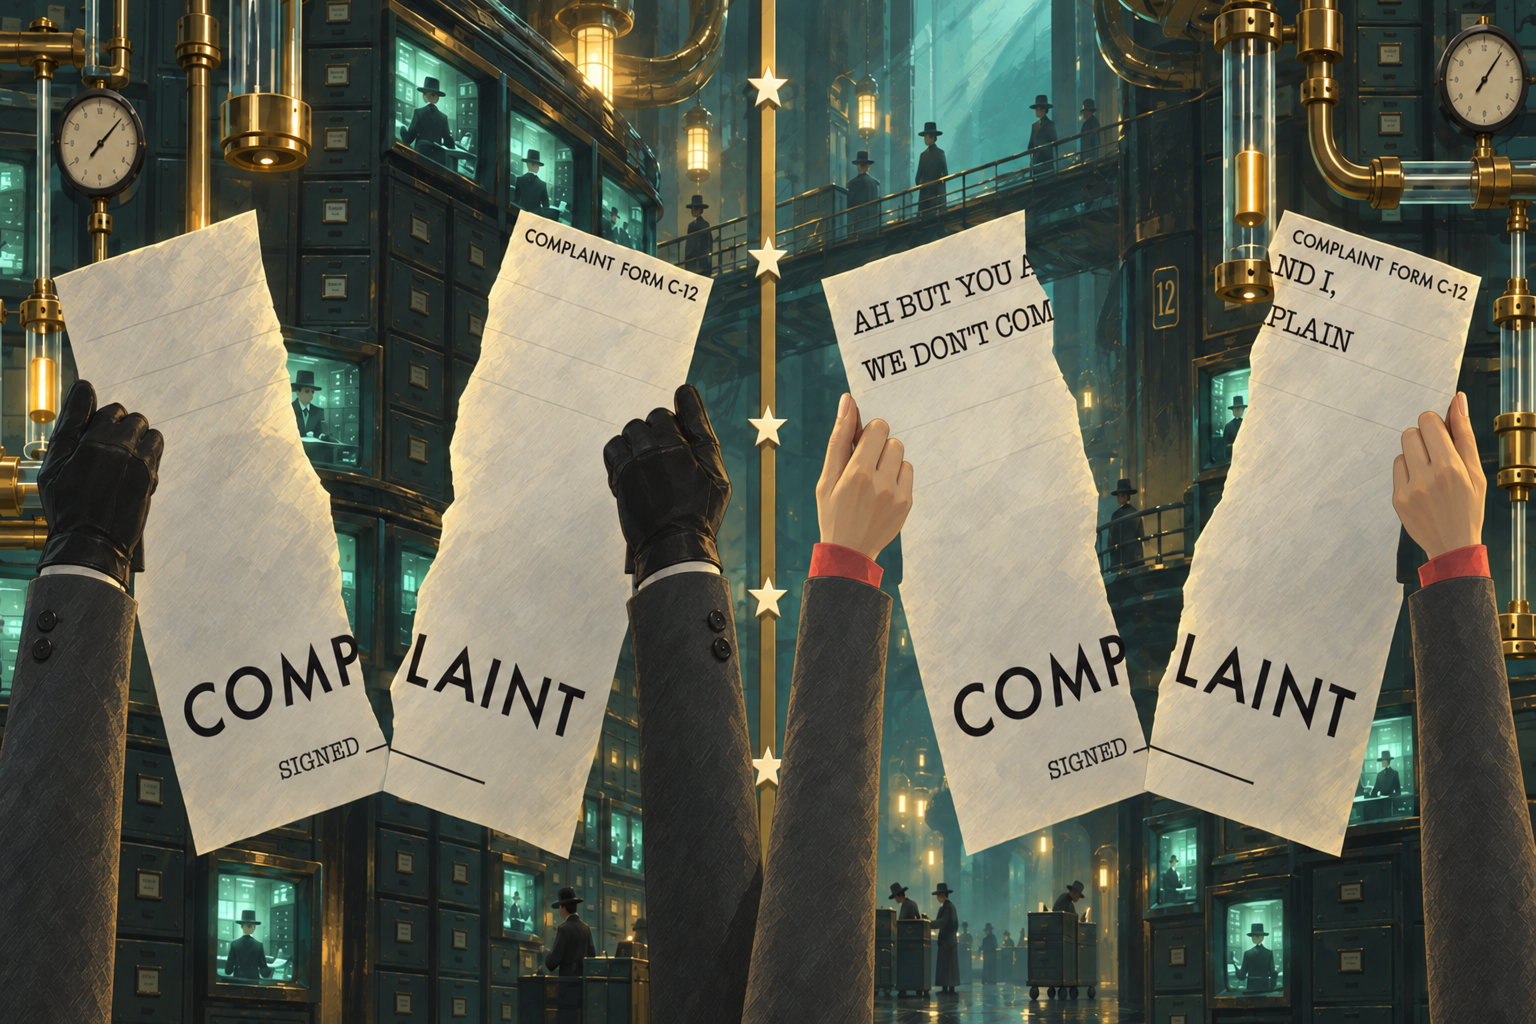
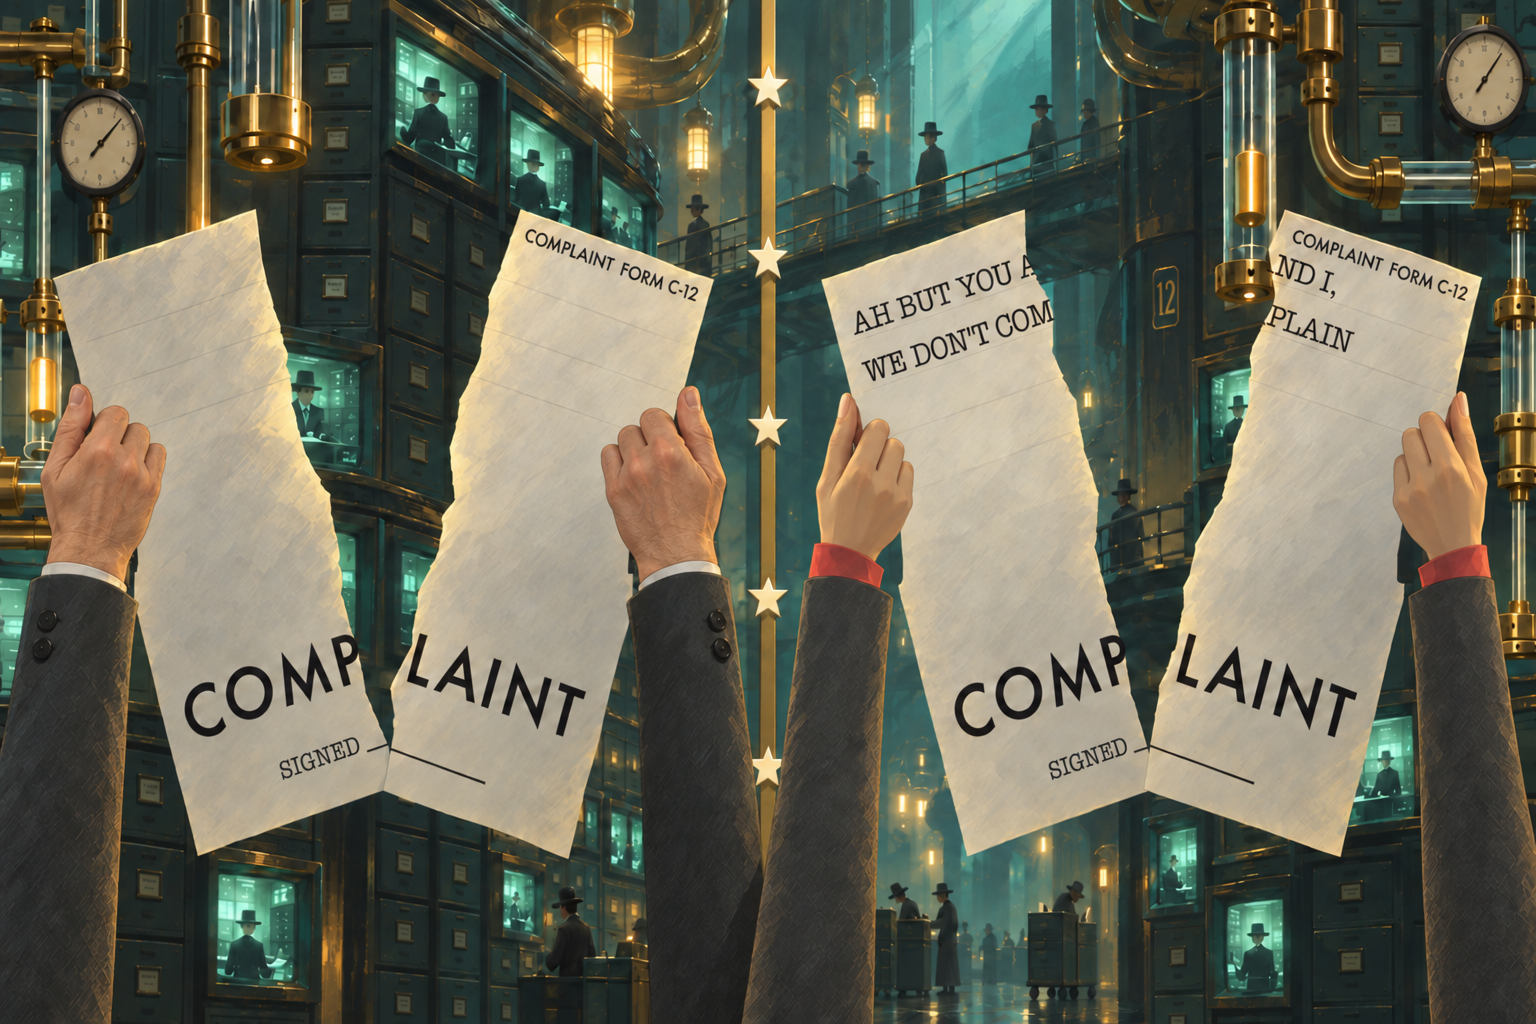
We Got Time world v16-v17: hard nightmare look, bare hands
The nightmare stills move to a much harder look in keyframes_nm2/: strict
symmetry, near-monochrome, flat shapes, endless chairs into fog, with only the
amber board and the sky for colour. The animatic prefers nm2, then nm, then
the cinematic pass. His black gloves (inherited from the pinball cut's mitt
hands) are gone from all eight stills that showed them.

Closes #79

diff --git a/bobwiseman-wgt-generative/world/animatic.py b/bobwiseman-wgt-generative/world/animatic.py
@@ -52,11 +52,13 @@ def entry_span(e, cuts):
 def upgraded(path):
     """The newest-style version of a still, if the style pass has made one (keyframes_v2/<flattened name>)."""
     if path.startswith('keyframes_v2/'):
-        nm = os.path.join(HERE, 'keyframes_nm', path.split('/', 1)[1])
-        return 'keyframes_nm/' + path.split('/', 1)[1] if os.path.exists(nm) else path
+        for d in ('keyframes_nm2', 'keyframes_nm'):
+            if os.path.exists(os.path.join(HERE, d, path.split('/', 1)[1])):
+                return f"{d}/{path.split('/', 1)[1]}"
+        return path
     name = re.sub(r'^(\.\./)+', '', path).replace('keyframes/', '').replace('/', '__')
     # nightmare-world versions (flat, cold) win over the cinematic style pass
-    for d in ('keyframes_nm', 'keyframes_v2'):
+    for d in ('keyframes_nm2', 'keyframes_nm', 'keyframes_v2'):
         if os.path.exists(os.path.join(HERE, d, name)):
             return f'{d}/{name}'
     return path
